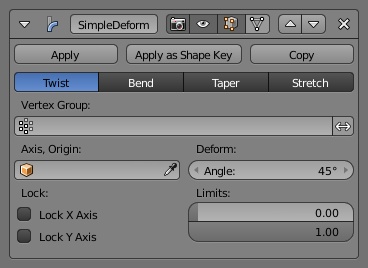
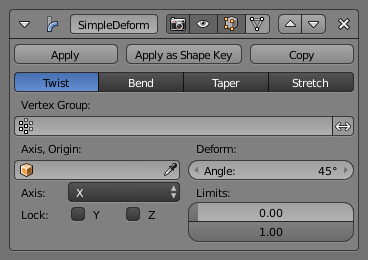
Update for modifiers, T56293, T54277

Changed region(s): [[0.0299, 0.0308, 0.9864, 0.9538], [0.9565, 0.8615, 0.9864, 0.8923]]

diff --git a/manual/modeling/modifiers/simulate/particle_instance.rst b/manual/modeling/modifiers/simulate/particle_instance.rst
@@ -1,23 +1,14 @@
-..    TODO/Review: {{Review|im=new?}}.
-
 .. _bpy.types.ParticleInstanceModifier:
 
 **************************
 Particle Instance Modifier
 **************************
 
-When a *Particle Instance* modifier is added to an object, that object will be used
-as a particle shape on an object which has a particle system associated with it.
+When a *Particle Instance* modifier is added to an object,
+the mesh of this object will be edited by duplicating
+at the location of the particles of the selected *Particle System*.
 This means that to use this modifier you must have at least one other object
 that has a :doc:`Particles System </physics/particles/index>` on it.
-
-.. (wip) T54277
-
-   When a *Particle Instance* modifier is added to an object,
-   the mesh of this object will be edited
-   by duplicating at the location of the particles of the selected Particle System.
-
-   (this means, it edits mesh, remains one single object, and not "used as a particle shape")
 
 Because of the correlation in which the *Particle Instance* modifier is
 influenced by the underlying particle systems on other objects, some of the apparent effects
@@ -36,14 +27,6 @@ Options
 
 Object
    The name of an object which has a particle system associated with it.
-
-.. (wip) T54277
-
-   This indicates that when the object named in this field emits particles,
-   those particles will have the mesh shape of the current *Particle Instance* modifier's mesh.
-
-   (this is not quite correct and unnecessary)
-
 Particle System
    The *Particle System* field is used to select
    which particle system to apply the *Particle Instance* modifier to,
@@ -54,42 +37,35 @@ Create From
 -----------
 
 Normal
-   When selected, the *Normal* button tells the Particle Instance Modifier
-   to draw instances of itself wherever normal particle types are
-   emitted from the underlying particle system. So if the current modifier is a sphere shape,
-   when normal particles are emitted they will be spheres.
+   When selected, the modifier will use the normal (parent) particles
+   to duplicate the mesh of the edited object.
 Children
-   When selected, the *Children* button tells the modifier
-   to draw instances of itself wherever children/child particles are
-   emitted/used on the underlying particle system. So if the current modifier is a sphere shape,
-   when children/child particles are emitted they will be spheres.
+   When selected, the modifier will use the :doc:`children </physics/particles/emitter/children>` particles
+   to duplicate the mesh of the object being edited.
 Size
-   Scale the instanced objects by the particle size attribute.
+   Scale the instanced mesh by the particle size attribute.
    When this is disabled, all the copies appear the same size as the origin.
+
+   See the particle system's :doc:`Render </physics/particles/emitter/render>`
+   and :doc:`Children </physics/particles/emitter/children>` panels for particle's size options.
 
 
 Show Particles When
 -------------------
 
 Unborn
-   When selected, the *Unborn* button tells the modifier
-   to draw instances of itself wherever unborn particles will be
-   emitted/used on the underlying particle system.
-   So if the current Particle Instance Modifier is a sphere shape,
-   when unborn particles are present they will be spheres.
+   When selected, the modifier will use the unborn particles
+   to duplicate the mesh of the edited object.
 Alive
-   When selected, the *Alive* button tells the modifier
-   to draw instances of itself wherever alive particles will be
-   emitted/used on the underlying particle system.
-   So if the current Particle Instance Modifier is a sphere shape,
-   when alive particles are present they will be spheres.
+   When selected, the modifier will use the alive particles
+   to duplicate the mesh of the object being edited.
 Dead
-   When selected, the *Dead* button tells the modifier to draw instances of itself
-   wherever dead particles will occur on the underlying particle system.
-   So if the current Particle Instance Modifier is a sphere shape,
-   when dead particles are present they will be spheres.
+   When selected, the modifier will use the dead particles
+   to duplicate the mesh of the edited object.
 
-------------------------
+
+Further Options
+---------------
 
 Space
    World, Local
@@ -103,6 +79,11 @@ Amount
       Specifies the "offset" which of the particles will be skipped.
       Allows you to avoid overlapping of the used particles,
       when the same particle system is used in multiple modifier instances.
+
+Rotation Axis
+   Specify which pole axis to use for the rotation.
+
+   X, Y, Z
 
 
 Using Paths
@@ -122,10 +103,6 @@ Create Along Paths
    This option tries to make the underlying mesh object of the modifier
    deform its mesh shape in such a way as to try and match the path the particles moves along
    (or hair strands) of the system associated with it.
-Rotation Axis
-   Specify which pole axis to use for the rotation.
-
-   X, Y, Z
 Keep Shape
    Enabling this prevents the object from being deformed
    and places it on the path according to the *Position* value.
@@ -183,12 +160,11 @@ can have an impact on how well the deformation is carried out.
 In the case of the cylinder, it has many loop cuts along its length so
 that it can bend at those points to deform along the particle path.
 
-The Particle Instance modifier *Create Along Paths* button works for hair (strand)
+The Particle Instance modifier *Create Along Paths* works for hair (strand)
 particles as well as with keyed particles. In this case the mesh of the Particle Instance modifier
 will follow the length and profile of the hair strands paths.
 
 .. note::
 
-   Strands when they are generated instantly die when created so for the *Create Along Paths* button
-   to be of any use, you must also have the *Dead* button activated.
-   Otherwise the path a mesh has taken will not be visible!
+   Strands when they are generated instantly die when created so for the *Create Along Paths* checkbox
+   to be of any use, you must also have the *Dead* checkbox activated.

diff --git a/manual/modeling/modifiers/generate/mirror.rst b/manual/modeling/modifiers/generate/mirror.rst
@@ -4,15 +4,7 @@
 Mirror Modifier
 ***************
 
-.. figure:: /images/modeling_modifiers_generate_mirror_example-cube.png
-   :width: 350px
-
-   The corner of a cube mirrored across three axes to form... well... a cube.
-
-
-The Mirror Modifier mirrors a mesh along its *local* X, Y and/or Z axes, across the object's center
-(the mirror plane is then defined by the two other axes).
-
+The *Mirror Modifier* mirrors a mesh along its local X, Y and/or Z axes, across the :term:`Object Origin`.
 It can also use another object as the mirror center, then use that object's local axes instead of its own.
 
 
@@ -27,8 +19,7 @@ Options
 Axis
 ----
 
-The X, Y, Z axis along which to mirror
-(i.e. the axis perpendicular to the mirror plane of symmetry).
+The X, Y, Z axis along which to mirror, i.e. the axis perpendicular to the mirror plane of symmetry.
 
 To understand how the axis applies to the mirror direction, if you were to mirror on the X axis,
 the positive X values of the original mesh would become the negative X values on the mirrored side.
@@ -70,13 +61,17 @@ Vertex Groups
 Textures
 --------
 
-The U and V options allows you to mirror the UV texture coordinates across the middle of the image.
+Flip UV
+   The *Flip U* and *Flip V* options allows you to mirror the UV texture coordinates across the middle of the image.
 
-E.g. if you have a vertex with UV coordinates of (0.3, 0.9),
-its mirror copy will have UV coordinates of (0.7, 0.1).
+   E.g. if you have a vertex with UV coordinates of (0.3, 0.9),
+   its mirror copy will have UV coordinates of (0.7, 0.1).
 
 UV Offsets
-   Amount to shift mirrored UVs from the 0.5 point on the U/V axis.
+   Amount to shift mirrored UVs on the U/V axis.
+
+   Useful for baking (as overlapping UVs can cause artifacts to appear in the baked map),
+   so UVs can be moved outside the image and not used to bake pixels, but still used for display.
 
 
 Further Options
@@ -95,39 +90,44 @@ Mirror Object
 Hints
 =====
 
-Many modeling tasks involve creating objects that are symmetrical. However, there used to be
-no quick way to model both halves of an object without using one of the workarounds that have
-been discovered by clever Blender artists over the years. A common technique was to model one
-half of an object and use :kbd:`Alt-D` to create a linked duplicate which can then be
-scaled on one axis by -1 to produce a perfect mirror-image copy which updates in real-time as you edit.
+.. Many modeling tasks involve creating objects that are symmetrical. However, there used to be
+   no quick way to model both halves of an object without using one of the workarounds that have
+   been discovered by clever Blender artists over the years. A common technique was to model one
+   half of an object and use :kbd:`Alt-D` to create a linked duplicate which can then be
+   scaled on one axis by -1 to produce a perfect mirror-image copy which updates in real-time as you edit.
 
-The Mirror Modifier offers a simpler way to do this. Once your modeling is completed you can either
-click *Apply* to make a real version of your mesh or leave it as-is for future editing.
+.. The Mirror Modifier offers a simpler way to do this. Once your modeling is completed you can either
+   click *Apply* to make a real version of your mesh or leave it as-is for future editing.
 
 
 Using the Mirror Modifier with a Subdivision Surface Modifier
 -------------------------------------------------------------
 
+.. Mostly this is the same as in the "The Modifier Stack" section
+   of the modifiers "Introduction" page. (TODO)
+
 When using the Mirror Modifier along with a
 :doc:`Subdivision Surface </modeling/modifiers/generate/subsurf>`
 modifier, the order in which the modifiers are placed is important.
 
-.. figure:: /images/modeling_modifiers_generate_mirror_subsurf2.png
-   :width: 300px
+.. list-table::
 
-   Subdivision Surface Modifier before Mirror Modifier.
+   * - .. figure:: /images/modeling_modifiers_generate_mirror_subsurf2.png
+          :width: 320px
 
-The above image shows the Subdivision Surface Modifier placed before the Mirror one; as you
+          Subdivision Surface Modifier before Mirror Modifier.
+
+     - .. figure:: /images/modeling_modifiers_generate_mirror_subsurf1.png
+          :width: 320px
+
+          Mirror Modifier before Subdivision Surface Modifier.
+
+The first image above shows the Subdivision Surface Modifier placed before the Mirror one; as you
 can see the effect of this is that the mesh is split down the center line of the mirror effect.
 This is because the Subdivision calculation moves vertices away from the mirror plane, too far away from the
 *Merge Limit*.
 
-.. figure:: /images/modeling_modifiers_generate_mirror_subsurf1.png
-   :width: 300px
-
-   Mirror Modifier before Subdivision Surface Modifier.
-
-The above image shows the Mirror Modifier placed before the Subdivision Surface Modifier.
+The second image shows the Mirror Modifier placed before the Subdivision Surface Modifier.
 In this order, the mirror calculation is done and the vertices are merged together.
 Only after that does the Subdivision Surface Modifier move any vertices.
 

diff --git a/manual/render/cycles/nodes/types/input/particle_info.rst b/manual/render/cycles/nodes/types/input/particle_info.rst
@@ -11,18 +11,11 @@ Particle Info Node
 
    Particle Info Node.
 
-The *Particle Info* node is for objects instanced from a :doc:`Particle System </physics/particles/index>`.
-This node gives access to the data of the particle that spawned the instance.
+The *Particle Info* node can be used in the material node tree for objects that are used as the Dupli Objects,
+when you use *Object* or *Group* :doc:`Render mode </physics/particles/emitter/render>` of a Particle System.
 
-.. (wip) T54277
-
-   The *Particle Info* node can be used in the material node tree for objects that are used as the Dupli Objects,
-   when you use *Object* or *Group* :doc:`Render mode </physics/particles/emitter/render>` of a Particle System.
-
-   (this means **only** in material of Dupli Objects for Object/Group render mode)
-
-   This node gives access to the data of the particle that spawned the object instance.
-   It can be useful to give some variation to a single material assigned to multiple instances.
+This node gives access to the data of the particle that spawned the object instance.
+It can be useful to give some variation to a single material assigned to multiple instances of Dupli Object.
 
 .. note::
 

diff --git a/manual/modeling/modifiers/modify/normal_edit.rst b/manual/modeling/modifiers/modify/normal_edit.rst
@@ -56,6 +56,13 @@ Vertex Group
 Max Angle
    (Todo)
 
+   .. https://developer.blender.org/rBac7feaed3d4d
+
+Lock Polygon Normals (padlock icon)
+   (Todo)
+
+   .. https://developer.blender.org/rB0eb324671315
+
 
 Usage
 =====

diff --git a/manual/modeling/modifiers/generate/array.rst b/manual/modeling/modifiers/generate/array.rst
@@ -98,6 +98,13 @@ Distance
    Controls the merge distance for *Merge*.
 
 
+UVs
+---
+
+U Offset, V Offset
+   Shifts UVs of each new duplicate by settable amount.
+
+
 Cap
 ---
 

diff --git a/manual/modeling/modifiers/deform/simple_deform.rst b/manual/modeling/modifiers/deform/simple_deform.rst
@@ -1,3 +1,6 @@
+.. (TODO) out of date, need update
+   https://developer.blender.org/rB6554207841a4
+
 .. _bpy.types.SimpleDeformModifier:
 
 **********************
